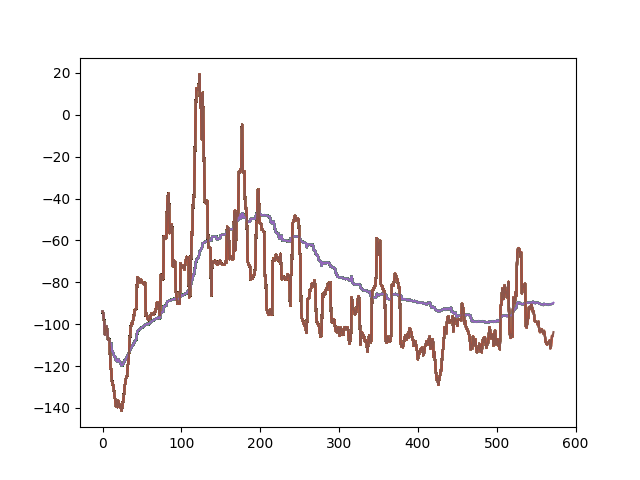
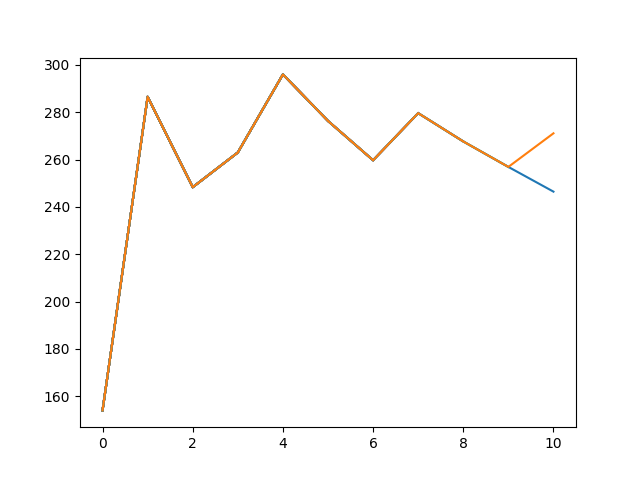
fixed not including 1st spot as visited running very well

diff --git a/DQAgent.py b/DQAgent.py
@@ -3,8 +3,8 @@
 
 import numpy as np
 import tensorflow as tf
-from tensorflow.keras.models import Sequential
-from tensorflow.keras.layers import Dense, Dropout, Flatten, Conv2D
+from tensorflow.keras.models import Sequential, Model
+from tensorflow.keras.layers import Dense, Dropout, Flatten, Conv2D, Input, Lambda, add
 from tensorflow.keras.optimizers import Adam
 from collections import deque
 import random
@@ -39,21 +39,32 @@ class DQAgent:
             return
         self.targetModel.set_weights(self.actionModel.get_weights())
         self.updateTime = 1000
-        self.targetModel.save_weights(f"models/Model-{datetime.now().strftime("%d-%m-%Y-%H-%M")}.weights.h5")
-        self.actionModel.save_weights(f"models/Model-latest.weights.h5")
+        if self.epsilon < .9:
+            self.targetModel.save_weights(f"models/Model-{datetime.now().strftime("%d-%m-%Y-%H-%M")}.weights.h5")
+            self.actionModel.save_weights(f"models/Model-latest.weights.h5")
 
     def reset(self):
         pass
 
     def buildModel(self):
-        model = Sequential([
-        Conv2D(64, (3,3), activation='relu', padding='same', input_shape=self.inputShape),
-        Conv2D(64, (3,3), activation='relu', padding='same'),
-        Flatten(),
-        Dense(256, activation='relu'),
-        Dense(self.outputShape, activation='linear')
-        ])
-        model.compile(optimizer=Adam(learning_rate=self.learningRate), loss='mse')
+        inputs = Input(shape=self.inputShape)
+        x = Conv2D(64, (3,3), activation='relu', padding='same')(inputs)
+        x = Conv2D(64, (3,3), activation='relu', padding='same')(x)
+        flat = Flatten()(x)
+
+        v = Dense(128, activation='relu')(flat)
+        v = Dense(1, activation='linear')(v)  # V(s)
+
+        a = Dense(128, activation='relu')(flat)
+        a = Dense(self.outputShape, activation='linear')(a)  # A(s,a)
+
+        mean_a = Lambda(lambda t: tf.reduce_mean(t, axis=1, keepdims=True))(a)
+        q_values = add([v, Lambda(lambda t: t[0] - t[1])([a, mean_a])])
+
+        # 5) Compile model
+        model = Model(inputs=inputs, outputs=q_values)
+        model.compile(optimizer=tf.keras.optimizers.Adam(self.learningRate),
+                    loss='mse')
         return model
 
     # call to take an action in the environment

diff --git a/main.py b/main.py
@@ -22,13 +22,14 @@ def reset():
 agent = DQAgent((10, 10, 4), 4)
 agent.loadModel("models/Model-latest.weights.h5")
 
-STEP_PENALTY     = -1     # every time step
-NEW_CELL_REWARD  = +1.0
+STEP_PENALTY     = -1.0     # every time step
+NEW_CELL_REWARD  = +5.0
 
 roundNum = 0
 EveryReward = []
 m = reset()
 mapsize = m.getMovableCount()
+print("Map size:", mapsize)
 GOAL_REWARD      = mapsize * 2
 while roundNum < 10000:
     roundNum += 1
@@ -39,11 +40,11 @@ while roundNum < 10000:
     if roundNum % 100 == 0:
         oldEps = agent.epsilon
     for i in range(200):
-        m.move_direction(agent.act(m.getGrid3D()))
-        if roundNum % 10 == 0:
-            m.displayBase()
         startLen = len(visited)
         visited.add(m.agent)
+        m.move_direction(agent.act(m.getGrid3D()))
+        if roundNum % 1 == 0:
+            m.displayBase()
         if len(visited) >= mapsize:
             print("-------------------------------------Visited all cells")
             reward = GOAL_REWARD